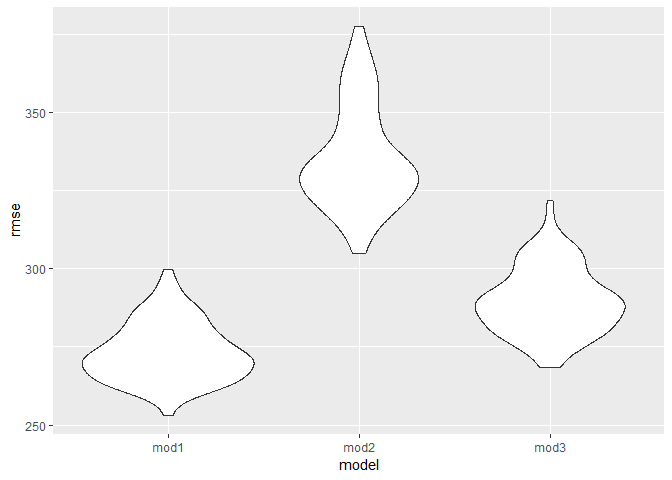
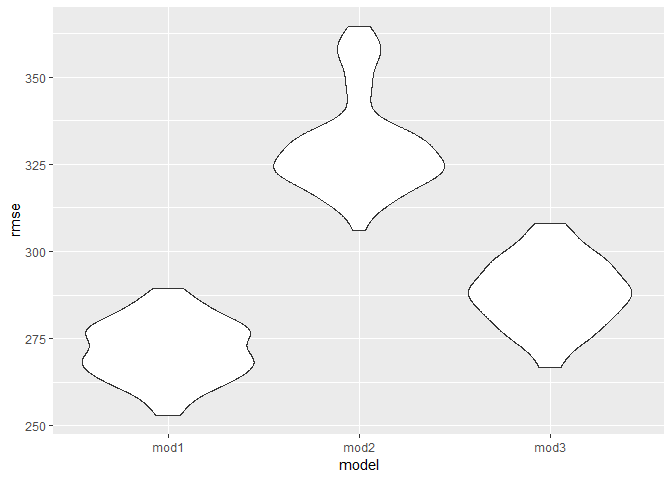
make comparisons

diff --git a/Homework6.md b/Homework6.md
@@ -377,11 +377,42 @@ summary(fit)
 
 ``` r
 data %>% 
-  select(bwt,babysex,bhead,blength,delwt,fincome,gaweeks,mheight,mrace,parity,ppwt,smoken)%>%
-  add_residuals(fit) %>% 
-  add_predictions(fit)%>%
-  ggplot(aes(x=))
+  select(bwt,babysex,bhead,blength,delwt,fincome,gaweeks,mheight,mrace,parity,ppwt,smoken)
 ```
+
+    ## # A tibble: 4,342 x 12
+    ##      bwt babysex bhead blength delwt fincome gaweeks mheight mrace parity
+    ##    <int> <fct>   <int>   <int> <int>   <int>   <dbl>   <int> <fct>  <int>
+    ##  1  3629 2          34      51   177      35    39.9      63 1          3
+    ##  2  3062 1          34      48   156      65    25.9      65 2          0
+    ##  3  3345 2          36      50   148      85    39.9      64 1          0
+    ##  4  3062 1          34      52   157      55    40        64 1          0
+    ##  5  3374 2          34      52   156       5    41.6      66 1          0
+    ##  6  3374 1          33      52   129      55    40.7      66 1          0
+    ##  7  2523 2          33      46   126      96    40.3      72 2          0
+    ##  8  2778 2          33      49   140       5    37.4      62 1          0
+    ##  9  3515 1          36      52   146      85    40.3      61 1          0
+    ## 10  3459 1          33      50   169      75    40.7      64 2          0
+    ## # ... with 4,332 more rows, and 2 more variables: ppwt <int>, smoken <dbl>
+
+``` r
+data %>% 
+  add_residuals(fit)%>%
+  
+  add_predictions(fit)%>%
+  gather(key = name, value = x, -bwt, -pred, -resid) %>%  
+  ggplot(aes(x = x, y = bwt)) +  
+  geom_segment(aes(xend = x, yend = pred), alpha = .2) +
+  geom_point(aes(color = resid)) +
+  scale_color_gradient2(low = "blue", mid = "white", high = "red") +
+  guides(color = FALSE) +
+  geom_point(aes(y = pred), shape = 1) +
+  facet_grid(~ name, scales = "free_x") + 
+  theme_bw()
+```
+
+    ## Warning: attributes are not identical across measure variables;
+    ## they will be dropped
 
 ![](Homework6_files/figure-markdown_github/problem2-1.png)
 
@@ -396,31 +427,22 @@ cv_df =
   mutate(rmse_mod1 = map2_dbl(mod1, test, ~rmse(model = .x, data = .y)),
          rmse_mod2 = map2_dbl(mod2, test, ~rmse(model = .x, data = .y)),
          rmse_mod3 = map2_dbl(mod3, test, ~rmse(model = .x, data = .y)))
-```
-
-    ## Warning in predict.lm(model, data): prediction from a rank-deficient fit
-    ## may be misleading
-
-    ## Warning in predict.lm(model, data): prediction from a rank-deficient fit
-    ## may be misleading
-
-``` r
 cv_df
 ```
 
     ## # A tibble: 100 x 9
     ##    train    test     .id   mod1  mod2  mod3  rmse_mod1 rmse_mod2 rmse_mod3
     ##    <list>   <list>   <chr> <lis> <lis> <lis>     <dbl>     <dbl>     <dbl>
-    ##  1 <tibble~ <tibble~ 001   <S3:~ <S3:~ <S3:~      277.      331.      291.
-    ##  2 <tibble~ <tibble~ 002   <S3:~ <S3:~ <S3:~      270.      345.      291.
-    ##  3 <tibble~ <tibble~ 003   <S3:~ <S3:~ <S3:~      276.      332.      287.
-    ##  4 <tibble~ <tibble~ 004   <S3:~ <S3:~ <S3:~      261.      325.      275.
-    ##  5 <tibble~ <tibble~ 005   <S3:~ <S3:~ <S3:~      273.      328.      289.
-    ##  6 <tibble~ <tibble~ 006   <S3:~ <S3:~ <S3:~      270.      331.      284.
-    ##  7 <tibble~ <tibble~ 007   <S3:~ <S3:~ <S3:~      278.      338.      292.
-    ##  8 <tibble~ <tibble~ 008   <S3:~ <S3:~ <S3:~      288.      359.      301.
-    ##  9 <tibble~ <tibble~ 009   <S3:~ <S3:~ <S3:~      262.      309.      278.
-    ## 10 <tibble~ <tibble~ 010   <S3:~ <S3:~ <S3:~      281.      334.      291.
+    ##  1 <tibble~ <tibble~ 001   <S3:~ <S3:~ <S3:~      288.      360.      308.
+    ##  2 <tibble~ <tibble~ 002   <S3:~ <S3:~ <S3:~      264.      321.      276.
+    ##  3 <tibble~ <tibble~ 003   <S3:~ <S3:~ <S3:~      277.      334.      296.
+    ##  4 <tibble~ <tibble~ 004   <S3:~ <S3:~ <S3:~      264.      328.      282.
+    ##  5 <tibble~ <tibble~ 005   <S3:~ <S3:~ <S3:~      264.      327.      279.
+    ##  6 <tibble~ <tibble~ 006   <S3:~ <S3:~ <S3:~      279.      350.      302.
+    ##  7 <tibble~ <tibble~ 007   <S3:~ <S3:~ <S3:~      264.      319.      282.
+    ##  8 <tibble~ <tibble~ 008   <S3:~ <S3:~ <S3:~      271.      327.      283.
+    ##  9 <tibble~ <tibble~ 009   <S3:~ <S3:~ <S3:~      272.      331.      294.
+    ## 10 <tibble~ <tibble~ 010   <S3:~ <S3:~ <S3:~      283.      345.      301.
     ## # ... with 90 more rows
 
 ``` r
